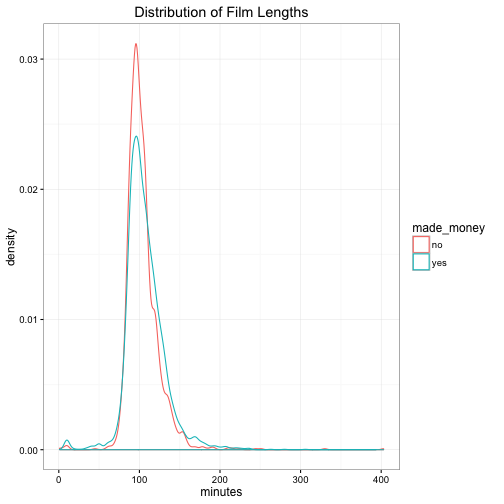
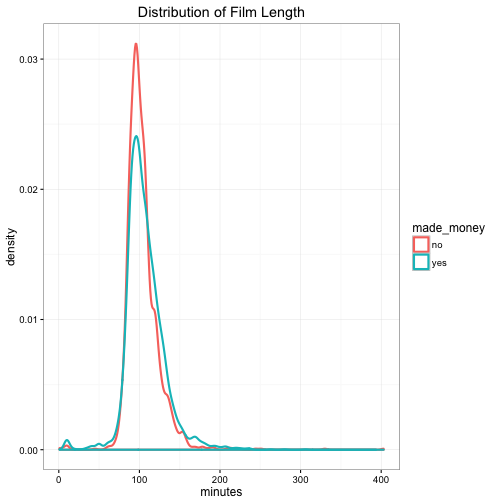
update density plot

Changed region(s): [[0.119, 0.0893, 0.5357, 0.8929], [0.2679, 0.0, 0.625, 0.0595], [0.8036, 0.4762, 0.8631, 0.5357]]

diff --git a/manuscript/03-02-densityplot.md b/manuscript/03-02-densityplot.md
@@ -26,11 +26,21 @@ We can also draw two density curves for `length`, one is for the group of films 
 
 A>
 ```r
-plt = mk_distplot(films)
-title = "Distribution of Film Lengths"
 p = plt("length", fillby="made_money", xlab="minutes", type="density",
         main=title)
 print(p)
 ```
 
 ![Distribution of Film Length by Two Groups](images/density_length_by_made_money-1.png) 
+
+The resulting plot looks all good except the default green and red colors are not color-blind friendly. We now replace them with color-blind friendly versions. 
+
+A>
+```r
+red = cb_color("reddish_purple")
+green = cb_color("bluish_green")
+p = p + ggplot2::scale_color_manual(values = c(red, green))
+print(p)
+```
+
+![Distribution of Film Length by Two Groups, Color-blind Friendly](images/density_length_by_made_money_cb-1.png) 
